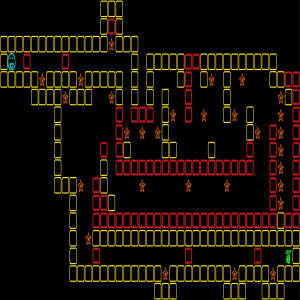
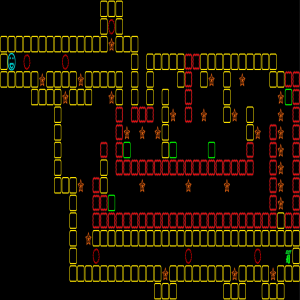
Fix Rails.xml to suit art changes -Add Saw rails to entity list -Fix how Importer.cs adds rails to mRails

diff --git a/WindowsGame1/Import Code/Importer.cs b/WindowsGame1/Import Code/Importer.cs
@@ -118,13 +118,8 @@ namespace GravityShift.Import_Code
                 //If the object is physics, make a physics object
                 if (entity.mType == XmlKeys.PHYSICS_OBJECT)
                 {
-                    if (entity.mName == "RailX" || entity.mName == "RailY" || entity.mName == "HazardRailX" || entity.mName == "HazardRailY")
-                    {
-                        if (entity.mProperties.ContainsKey("Rail") && entity.mProperties.ContainsKey("Length"))
-                        {
-                            mRails.Add(entity);
-                        }
-                    }
+                    if (entity.mProperties.ContainsKey("Rail") && entity.mProperties.ContainsKey("Length"))
+                        mRails.Add(entity);
 
                     bool isSquare = entity.mProperties.ContainsKey("Shape") && entity.mProperties["Shape"] == "Square";
                     float mass = 1;
